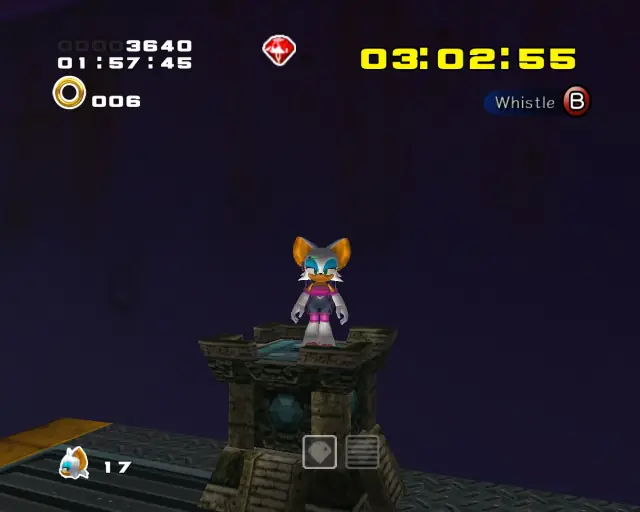
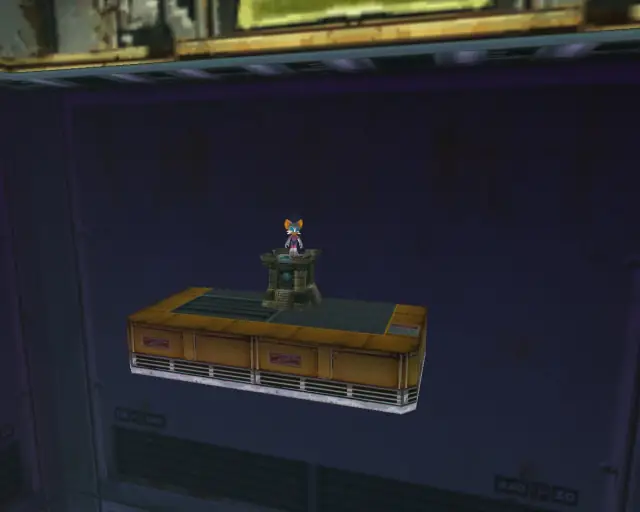
Fix pumpkin hill chao 3, security hall whistles, and mad space chao 1

diff --git a/ImageProcessingScript/Program.cs b/ImageProcessingScript/Program.cs
@@ -2,17 +2,12 @@
 using System.Diagnostics;
 using System.IO;
 
-Console.WriteLine("Hello, World!");
-// cwebp -resize 640 512 -m 6 -q 70 ../Sonic/CityEscape/Chaobox-1st-Close.webp -o ../Sonic/CityEscape/Chaobox-1st-Close.webp
-
-// Console.WriteLine(RunCommandWithBash(" -c \"cwebp -resize 640 512 -m 6 -q 70 ../Sonic/CityEscape/Chaobox-1st-Close.webp -o ../Sonic/CityEscape/Chaobox-1st-Close.webp\""));
-
 Console.WriteLine("Enter path to root of project:");
 string path = Console.ReadLine();
 
-foreach (string filePath in Directory.EnumerateFiles(path, "*.webp", SearchOption.AllDirectories))
+foreach (string filePath in Directory.EnumerateFiles(path, "*.jpg", SearchOption.AllDirectories))
 {
-    string outputPath = filePath.Replace(".webp", ".webp");
+    string outputPath = filePath.Replace(".jpg", ".webp");
 
     Console.WriteLine(RunCommandWithBash($" -c \"cwebp -resize 640 512 -m 6 -q 70 '{filePath}' -o '{outputPath}'\""));
 }

diff --git a/Rouge/Rouge.md b/Rouge/Rouge.md
@@ -117,6 +117,7 @@
 [Back to Top](#)
 
 ## Security Hall Hidden 1
+![](./SecurityHall/Hidden-1st-Far.webp)
 ![](./SecurityHall/Hidden-1st-Close.webp)
 
 [Back to Top](#)
@@ -130,6 +131,7 @@
 
 ## Mad Space Chao Box 1
 ![](./MadSpace/Chaobox-1st-Far.webp)
+![](./MadSpace/Chaobox-1st-Close.webp)
 
 [Back to Top](#)
 

diff --git a/Knuckles/Knuckles.md b/Knuckles/Knuckles.md
@@ -58,6 +58,7 @@
 [Back to Top](#)
 
 ## Pumpkin Hill Chao Box 3
+![](./PumpkinHill/Chaobox-3rd-Far.webp)
 ![](./PumpkinHill/Chaobox-3rd-Close.webp)
 
 [Back to Top](#)
